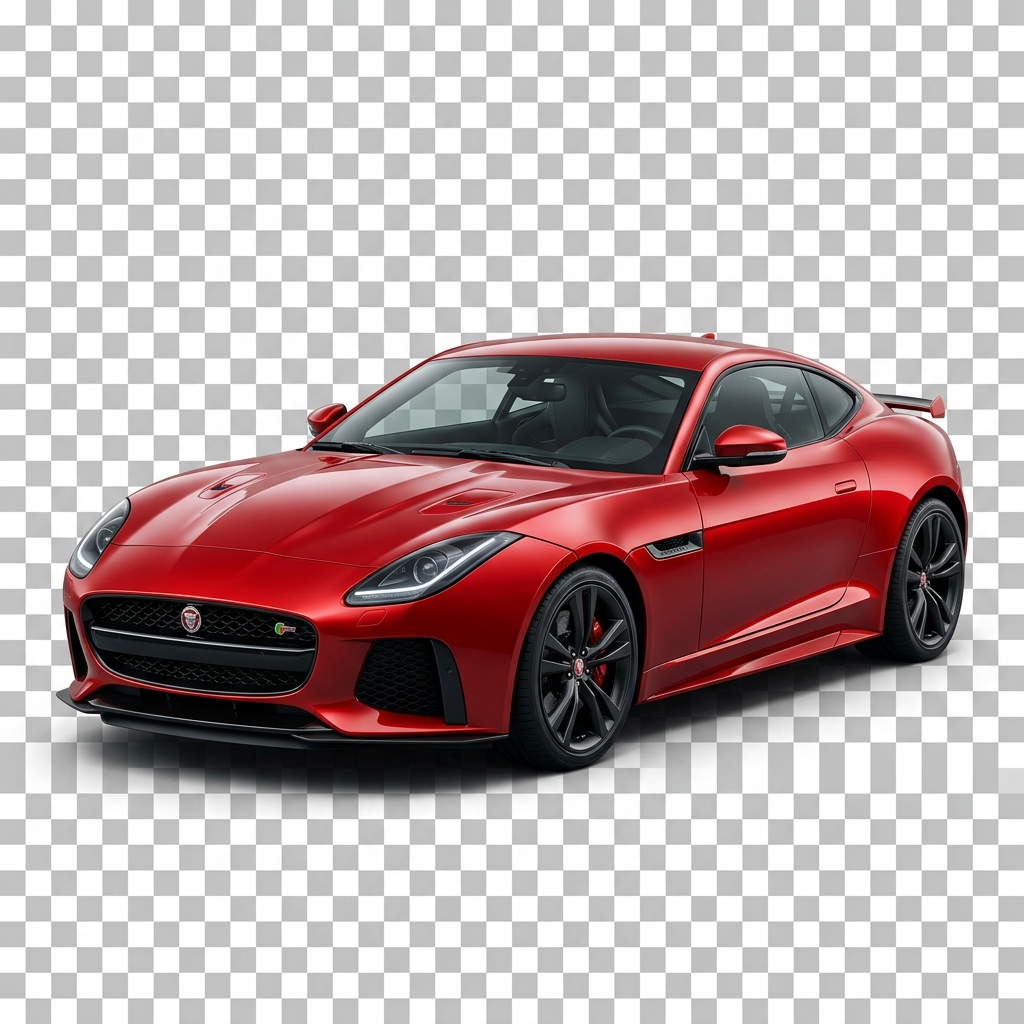
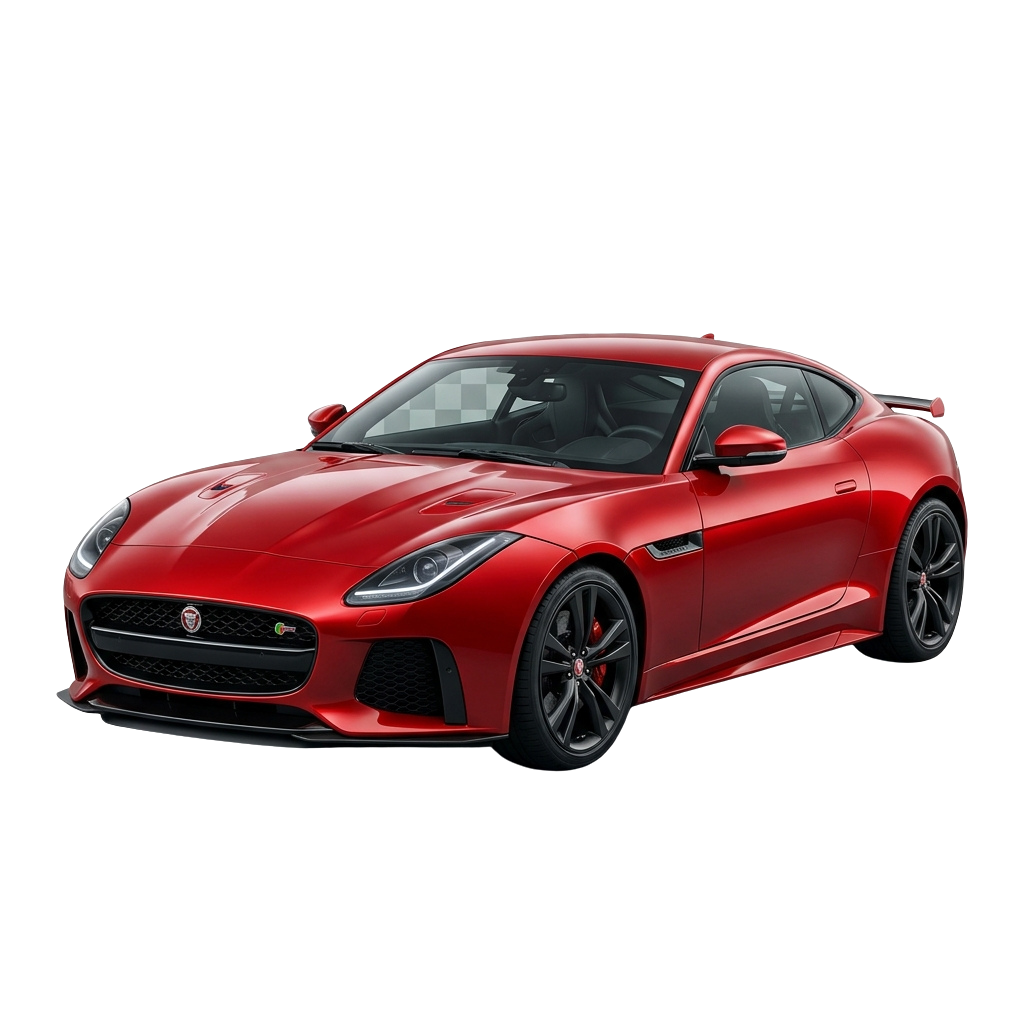
feat: add evaluate-my-car and location-specific sell pages with new asset image

diff --git a/src/app/sell-my-sharjah/page.tsx b/src/app/sell-my-sharjah/page.tsx
@@ -33,18 +33,15 @@ export default function SharjahPage() {
                             </p>
                         </div>
                         
-                        <div className="wow fadeInLeft relative" data-wow-delay="0.3s">
-                            {/* Background Blob */}
-                            <div className="absolute top-1/2 left-1/2 -translate-x-1/2 -translate-y-1/2 w-[140%] h-[140%] bg-[#f24026]/10 rounded-full blur-[100px] -z-10 animate-pulse" />
-                            <div 
-                                className="absolute top-1/2 left-1/2 -translate-x-1/2 -translate-y-1/2 w-[80%] h-[70%] bg-[#FFD0C9]/40 rounded-[40%_60%_70%_30%_/_40%_50%_60%_50%] -z-5" 
-                                style={{ animation: 'blob-morph 10s ease-in-out infinite' }}
-                            />
+                        <div className="relative mt-8 md:mt-0 wow zoomIn" data-wow-delay="0.3s">
+                            {/* Static Premium Background */}
+                            <div className="absolute top-1/2 left-1/2 -translate-x-1/2 -translate-y-1/2 w-[120%] h-[120%] bg-[#f24026]/5 rounded-full blur-3xl -z-10" />
+                            <div className="absolute top-1/2 left-1/2 -translate-x-1/2 -translate-y-1/2 w-[85%] h-[75%] bg-[#FFD0C9]/40 rounded-[50%_50%_40%_60%] -z-5" />
                             
                             <img
-                                src="/front/images/X3.webp" 
+                                src="/front/images/X6.webp" 
                                 alt="Sell My Car Sharjah"
-                                className="w-full h-auto drop-shadow-[0_30px_60px_rgba(0,0,0,0.2)] relative z-10 scale-110"
+                                className="w-full h-auto drop-shadow-[0_20px_50px_rgba(0,0,0,0.15)] relative z-10 scale-110"
                             />
                         </div>
                     </div>

diff --git a/src/app/sell-my-abu-dhabi/page.tsx b/src/app/sell-my-abu-dhabi/page.tsx
@@ -33,18 +33,15 @@ export default function AbuDhabiPage() {
                             </p>
                         </div>
                         
-                        <div className="wow fadeInLeft relative" data-wow-delay="0.3s">
-                            {/* Background Blob */}
-                            <div className="absolute top-1/2 left-1/2 -translate-x-1/2 -translate-y-1/2 w-[140%] h-[140%] bg-[#f24026]/10 rounded-full blur-[100px] -z-10 animate-pulse" />
-                            <div 
-                                className="absolute top-1/2 left-1/2 -translate-x-1/2 -translate-y-1/2 w-[80%] h-[70%] bg-[#FFD0C9]/40 rounded-[40%_60%_70%_30%_/_40%_50%_60%_50%] -z-5" 
-                                style={{ animation: 'blob-morph 10s ease-in-out infinite' }}
-                            />
+                        <div className="relative mt-8 md:mt-0 wow zoomIn" data-wow-delay="0.3s">
+                            {/* Static Premium Background */}
+                            <div className="absolute top-1/2 left-1/2 -translate-x-1/2 -translate-y-1/2 w-[120%] h-[120%] bg-[#f24026]/5 rounded-full blur-3xl -z-10" />
+                            <div className="absolute top-1/2 left-1/2 -translate-x-1/2 -translate-y-1/2 w-[85%] h-[75%] bg-[#FFD0C9]/40 rounded-[50%_50%_40%_60%] -z-5" />
                             
                             <img
                                 src="/front/images/X5.webp" 
                                 alt="Sell My Car Abu Dhabi"
-                                className="w-full h-auto drop-shadow-[0_30px_60px_rgba(0,0,0,0.2)] relative z-10 scale-110"
+                                className="w-full h-auto drop-shadow-[0_20px_50px_rgba(0,0,0,0.15)] relative z-10 scale-110"
                             />
                         </div>
                     </div>

diff --git a/src/app/evaluate-my-car/page.tsx b/src/app/evaluate-my-car/page.tsx
@@ -33,13 +33,10 @@ export default function EvaluatePage() {
                             </p>
                         </div>
                         
-                        <div className="wow fadeInLeft relative" data-wow-delay="0.3s">
-                            {/* Background Blob */}
-                            <div className="absolute top-1/2 left-1/2 -translate-x-1/2 -translate-y-1/2 w-[140%] h-[140%] bg-[#f24026]/10 rounded-full blur-[100px] -z-10 animate-pulse" />
-                            <div 
-                                className="absolute top-1/2 left-1/2 -translate-x-1/2 -translate-y-1/2 w-[80%] h-[70%] bg-[#FFD0C9]/40 rounded-[40%_60%_70%_30%_/_40%_50%_60%_50%] -z-5" 
-                                style={{ animation: 'blob-morph 10s ease-in-out infinite' }}
-                            />
+                        <div className="relative mt-8 md:mt-0 wow zoomIn" data-wow-delay="0.3s">
+                            {/* Static Premium Background */}
+                            <div className="absolute top-1/2 left-1/2 -translate-x-1/2 -translate-y-1/2 w-[120%] h-[120%] bg-[#f24026]/5 rounded-full blur-3xl -z-10" />
+                            <div className="absolute top-1/2 left-1/2 -translate-x-1/2 -translate-y-1/2 w-[85%] h-[75%] bg-[#FFD0C9]/40 rounded-[50%_50%_40%_60%] -z-5" />
                             
                             <img
                                 src="/front/images/Jaguar-Premium.png" 
